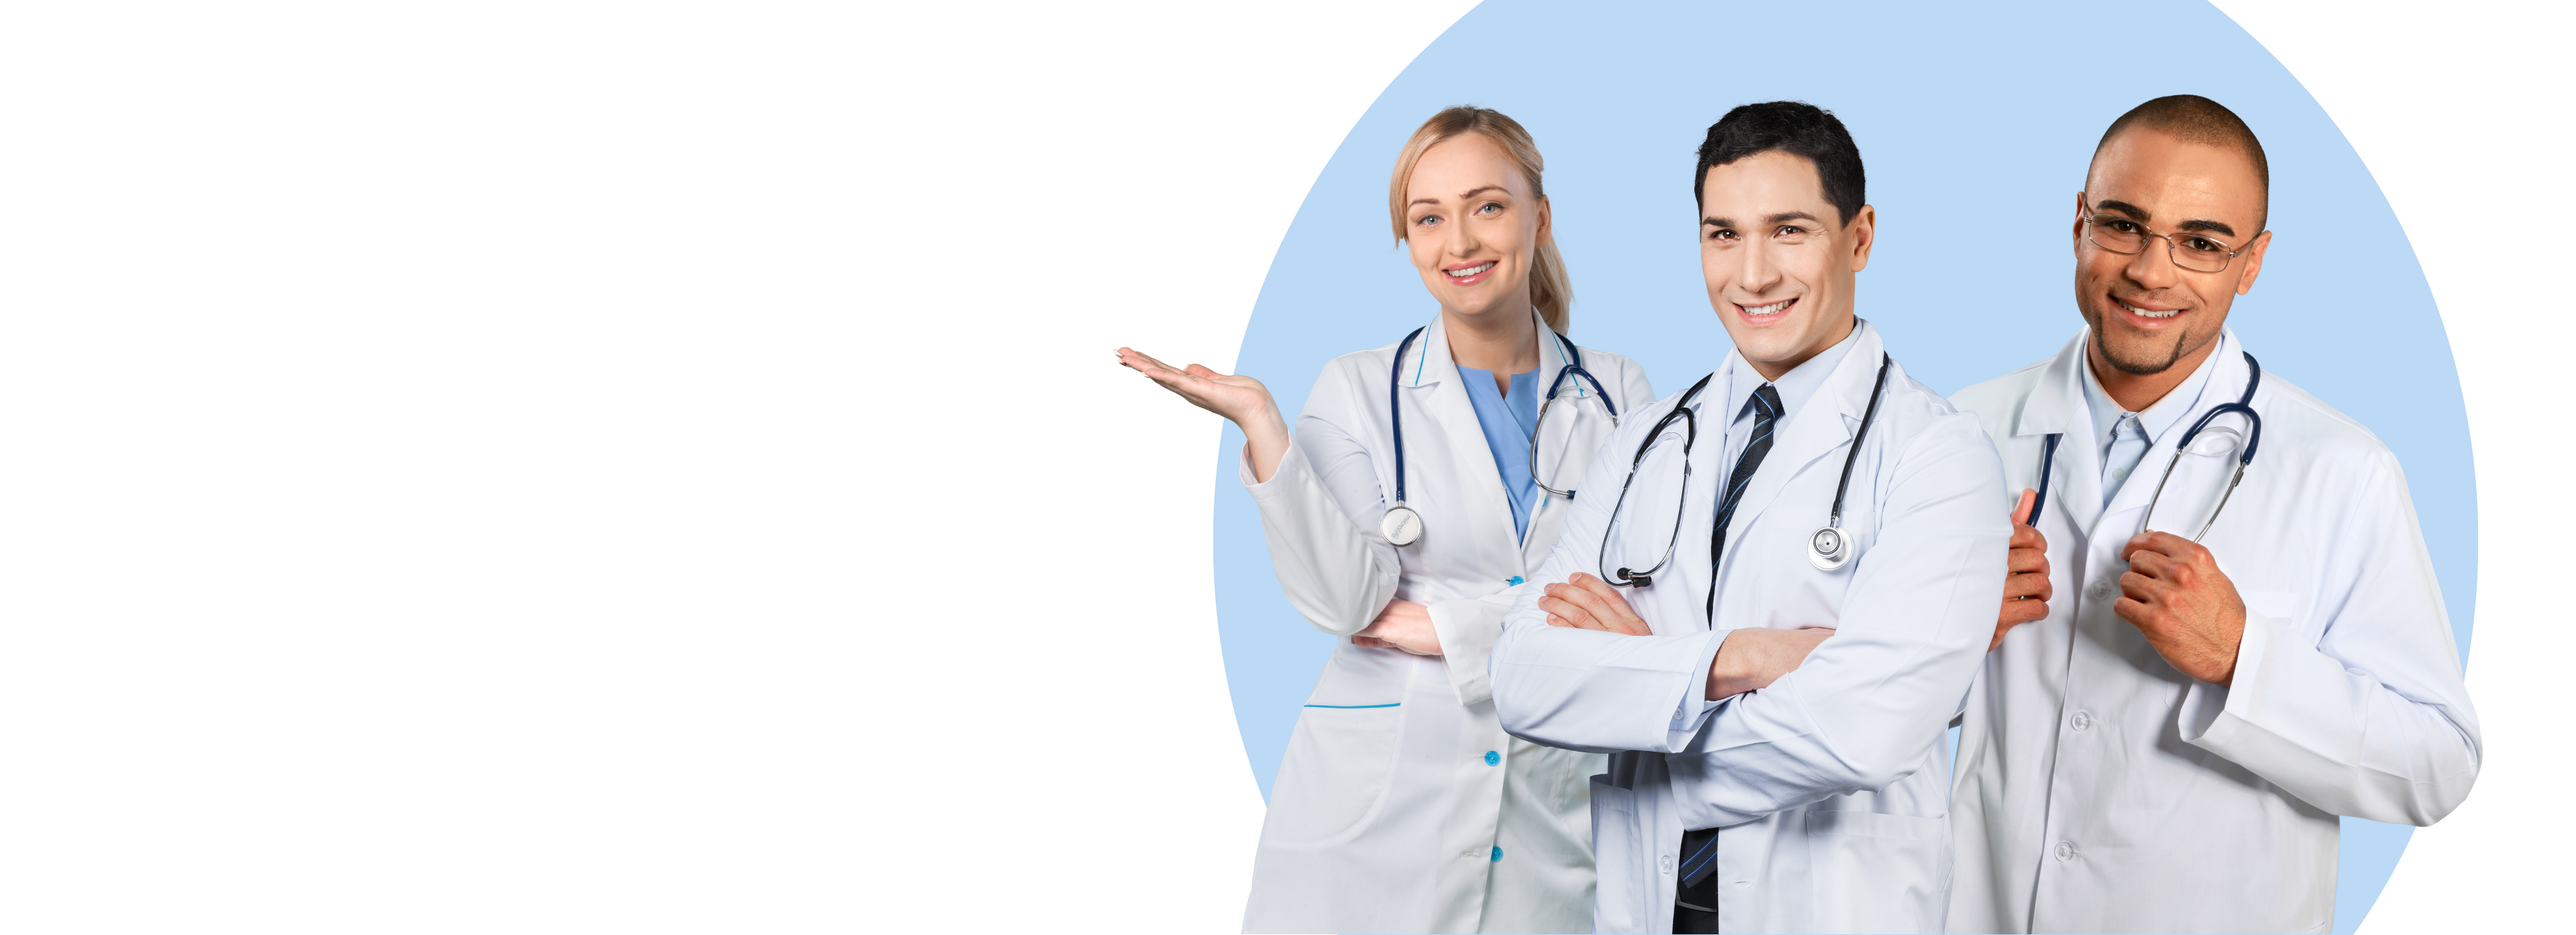
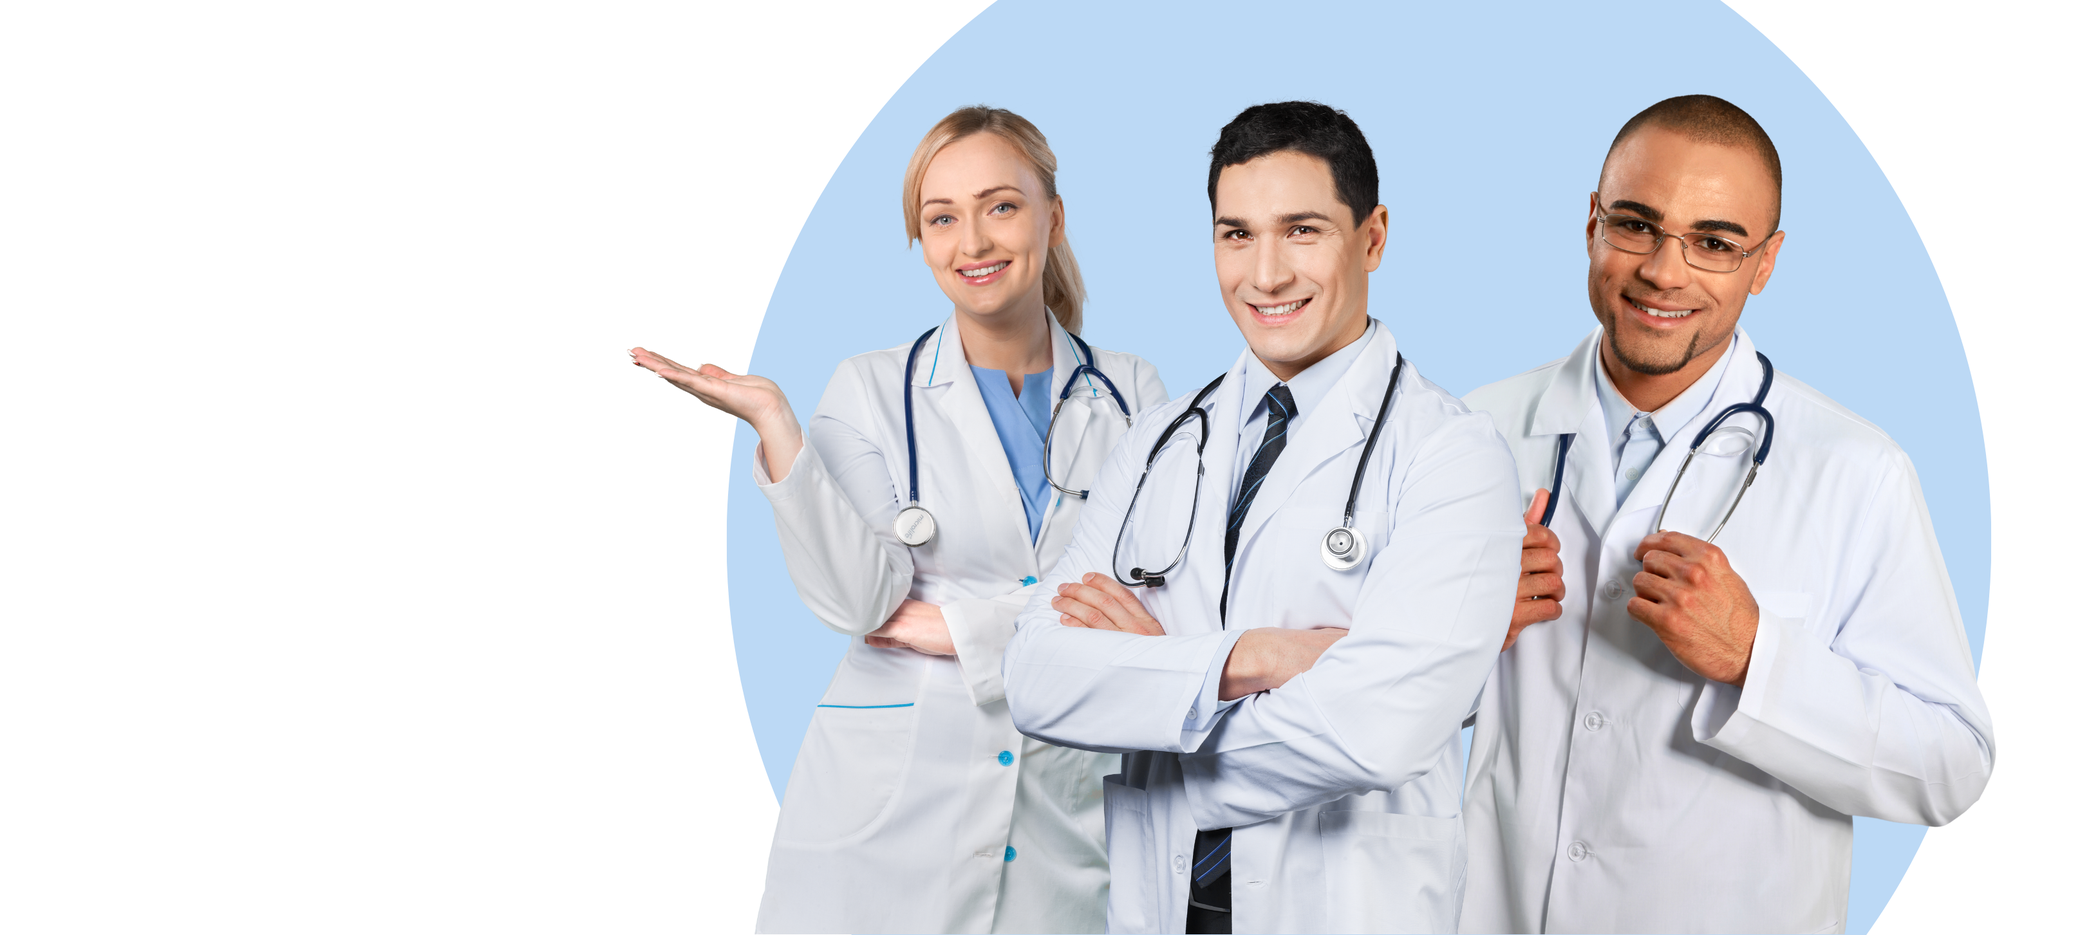
Thuytrang Update 27.5
27.5.2023 - 5h48 PM
Quá mệt mõi gồi

diff --git a/Zara_services/massage.html b/Zara_services/massage.html
@@ -12,11 +12,13 @@
 </head>
 
 <body ng-app="myApp">
-    
+    <div>
+        <img style="width: 100%;" src="/img/services/bg-service.png" alt="">
+    </div>  
     <div class="container" ng-controller="myController1">
 
         <div>
-            <h1>Massage therapy</h1>
+            <h1>MASSAGE THERAPY</h1>
         </div>
     
         <div class="row">

diff --git a/Zara_services/acupuncture.html b/Zara_services/acupuncture.html
@@ -10,11 +10,13 @@
 </head>
 
 <body ng-app="myApp" >
-
+    <div>
+        <img style="width: 100%;" src="/img/services/bg-service.png" alt="">
+    </div>
     <div class="container" ng-controller="myController0">
 
         <div>
-            <h1>Acupuncture</h1>
+            <h1>ACUPUNCTURE</h1>
         </div>
 
         <div class="row">

diff --git a/home.html b/home.html
@@ -354,7 +354,9 @@ About Us End -->
 
 <!-- Quote Start -->
 <div class="container-fluid py-5 booking" id="booking">
-
+    <!-- <div>
+        <img src="/img/services/doctors.png" alt="">
+    </div> -->
     <div class="container">
         <div class="row contact-form g-5">
             <div class="col-lg-6 col-md-12">

diff --git a/Zara_services/chiropractic.html b/Zara_services/chiropractic.html
@@ -12,6 +12,9 @@
 </head>
 
 <body ng-app="myApp">
+    <div>
+        <img style="width: 100%;" src="/img/services/bg-service.png" alt="">
+    </div>
     <div class="container" ng-controller="myController3">
         <div class="row">
             <div class=" col-lg-12 col-md-12 col-sm-12">

diff --git a/Zara_services/work.html b/Zara_services/work.html
@@ -12,6 +12,9 @@
 </head>
 
 <body ng-app="myApp">
+    <div>
+        <img style="width: 100%;" src="/img/services/bg-service.png" alt="">
+    </div>
     <div class="container" ng-controller="myController5">
         <div><h1>WORK INJURIES AND CAR ACCIDENT INJURIES</h1></div>
     

diff --git a/Zara_services/physical.html b/Zara_services/physical.html
@@ -10,8 +10,11 @@
     <link rel="stylesheet" href="../css/physical.css">
 
 </head>
-
+<div>
+    <img style="width: 100%;" src="/img/services/bg-service.png" alt="">
+</div>
 <body ng-app="myApp">
+
     <div class="container" ng-controller="myController4">
 
         <div>

diff --git a/Zara_services/osteopathy.html b/Zara_services/osteopathy.html
@@ -12,7 +12,9 @@
 </head>
 
 <body ng-app="myApp">
-    
+    <div>
+        <img style="width: 100%;" src="/img/services/bg-service.png" alt="">
+    </div> 
     <div class="container" ng-controller="myController2">
 
         <div>

diff --git a/css/style.css b/css/style.css
@@ -396,7 +396,7 @@ hr{
 /* booking */
 .booking {
     
-    background: url("/img/services/doctors.png");
+    background: url("/img/services/img-bg-booking.png");
     background-size: cover;
 }
 .about-banner {
